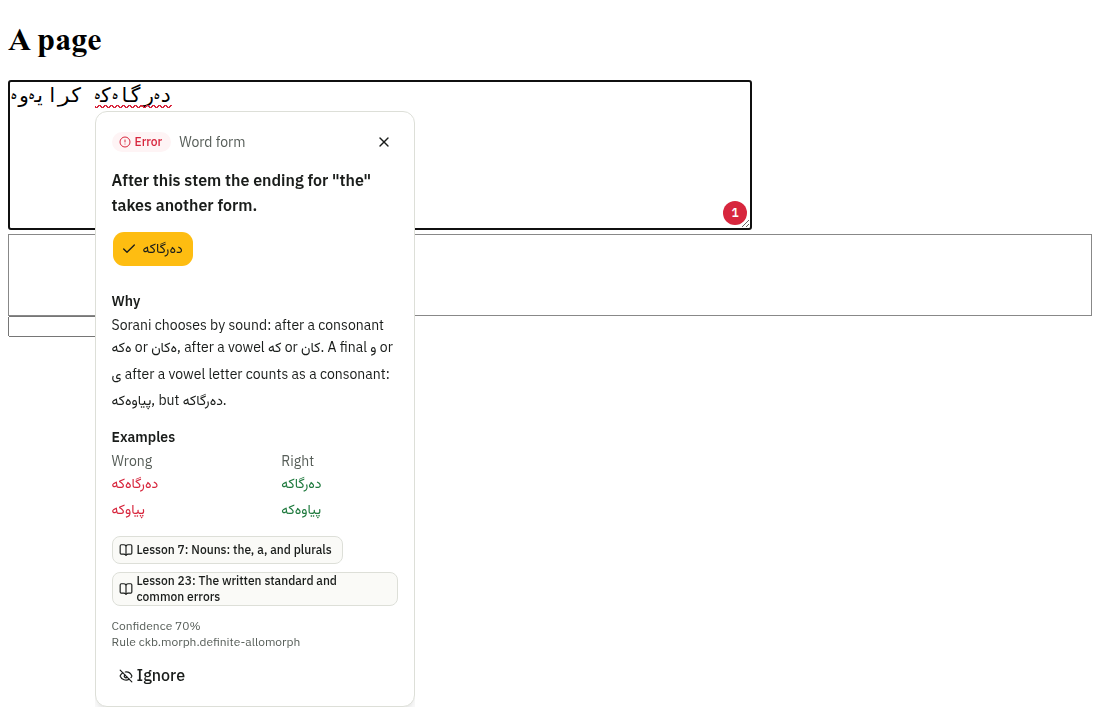
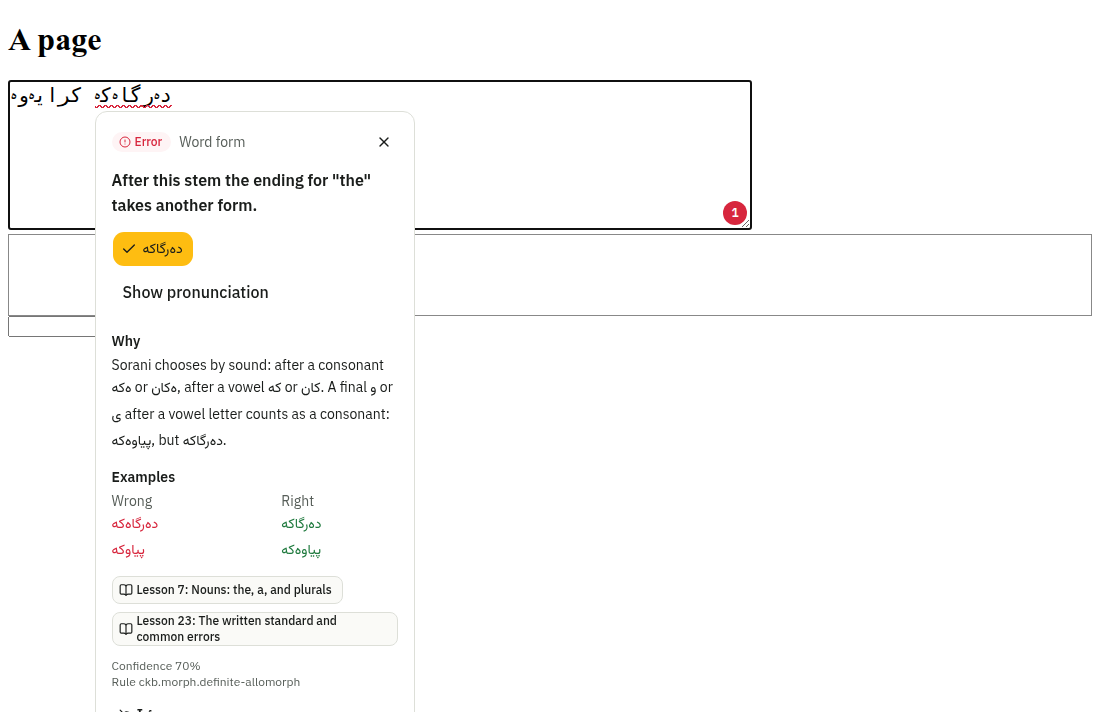
feat(editor): add the Sorani mark helper and show the pronunciation of suggestions
Typing ^ after ر, ل, ی or و gives ڕ, ڵ, ێ or ۆ, for Sorani on a keyboard without the marks,
behind the new autocomplete.soraniMarks setting. The full view and the desktop checker now honour
both typing helpers, which only the in-page checker did before.

Every checker passes the pronunciation of each suggestion to its card when teaching mode and the
new teaching.ipa setting are on; the website always does.

The docs drop the "Not yet" list: practice reminders already shipped. They now say the Safari
build has not been tested, that Google Docs cannot be checked, and which plans are on and off
the table.

Changed region(s): [[0.0927, 0.3972, 0.3709, 0.9778], [0.1236, 0.9778, 0.1545, 1.0]]

diff --git a/packages/editor/src/session.tsx b/packages/editor/src/session.tsx
@@ -6,7 +6,7 @@ import { createRoot } from "react-dom/client";
 import { fieldFor, isCheckable, type Rect, type TextField } from "./field.js";
 import { addStyles, OVERLAY_CSS, splitStyles } from "./styles.js";
 import { type CompletionView, kindOf, Surface, type Underline } from "./surface.js";
-import { helperLetter, shiftFindings, varietyOf, wordBefore } from "./text.js";
+import { helperLetter, markLetter, shiftFindings, varietyOf, wordBefore } from "./text.js";
 
 /** The checker as the editor sees it: CheckerClient fits, and so does anything else with these. */
 export interface EditorBackend {
@@ -40,6 +40,8 @@ export interface EditorOptions {
   teaching?: boolean;
   /** Turn e^ into ê and s, into ş while typing, for Kurmanji without its keyboard. */
   typingHelper?: boolean;
+  /** Turn ر^ into ڕ, ل^ into ڵ, ی^ into ێ and و^ into ۆ while typing, for Sorani without its keyboard. */
+  soraniMarks?: boolean;
   underline?: "thin" | "thick";
   /** Pages cannot reach into a closed shadow root. Only tests have reason to open it. */
   shadow?: ShadowRootMode;
@@ -102,6 +104,7 @@ export function attachEditor(candidate: Element, options: EditorOptions): Editor
     theme = "system",
     teaching = false,
     typingHelper = false,
+    soraniMarks = false,
     underline = "thin",
   } = options;
 
@@ -295,7 +298,7 @@ export function attachEditor(candidate: Element, options: EditorOptions): Editor
   function sync(): void {
     const next = field.text();
     if (next === snapshot) return;
-    if (typingHelper && !composing && !replacing && applyTypingHelper(next)) return;
+    if ((typingHelper || soraniMarks) && !composing && !replacing && applyTypingHelper(next)) return;
     findings = shiftFindings(findings, snapshot, next);
     snapshot = next;
     card = null;
@@ -313,7 +316,11 @@ export function attachEditor(candidate: Element, options: EditorOptions): Editor
   /** Replace what was just typed if it spells a letter. The replacement comes back here as a change of its own. */
   function applyTypingHelper(text: string): boolean {
     const caret = field.caret();
-    const letter = caret === null ? undefined : helperLetter(text, caret);
+    const letter =
+      caret === null
+        ? undefined
+        : ((typingHelper ? helperLetter(text, caret) : undefined) ??
+          (soraniMarks ? markLetter(text, caret) : undefined));
     if (caret === null || letter === undefined) return false;
     field.replace(caret - 2, caret, letter);
     return true;

diff --git a/packages/editor/src/checker-panel.tsx b/packages/editor/src/checker-panel.tsx
@@ -27,6 +27,12 @@ export interface CheckerPanelProps {
   onReady?: (refresh: () => void) => void;
   /** Offer to share the text. Resolves once the link has been copied. */
   onShare?: (text: string, mode: CheckMode) => Promise<void>;
+  /** Turn e^ into ê and the like while typing, for Kurmanji without its keyboard. */
+  typingHelper?: boolean;
+  /** Turn ر^ into ڕ and the like while typing, for Sorani without its keyboard. */
+  soraniMarks?: boolean;
+  /** The pronunciation of a suggestion, shown on its card. */
+  ipaOf?: (suggestion: string) => string | null;
   onLearn?: (lesson: LessonRef) => void;
   onAddToDictionary?: (word: string) => void;
   /** A finding the writer fixed or dismissed. */
@@ -48,6 +54,9 @@ export function CheckerPanel({
   initialMode = "auto",
   onReady,
   onShare,
+  ipaOf,
+  typingHelper = false,
+  soraniMarks = false,
   onLearn,
   onAddToDictionary,
   onAct,
@@ -72,6 +81,8 @@ export function CheckerPanel({
       css,
       theme: document.documentElement.dataset["theme"] === "dark" ? "dark" : "light",
       onFindings: setFindings,
+      typingHelper,
+      soraniMarks,
       backend,
       ...(onLearn !== undefined ? { onLearn } : {}),
       ...(onAddToDictionary !== undefined ? { onAddToDictionary } : {}),
@@ -83,7 +94,7 @@ export function CheckerPanel({
       handle?.destroy();
       editor.current = null;
     };
-  }, [lang, mode, css, backend, onReady, onLearn, onAddToDictionary, onAct]);
+  }, [lang, mode, css, backend, onReady, onLearn, onAddToDictionary, onAct, typingHelper, soraniMarks]);
 
   const finding = findings.find((found) => found.id === selected) ?? null;
   const looks = finding?.lookup === undefined ? undefined : looked[finding.lookup];
@@ -212,6 +223,7 @@ export function CheckerPanel({
                 editor.current?.ignore(shown.id);
                 setSelected(null);
               }}
+              {...(ipaOf !== undefined ? { ipaOf } : {})}
               {...(onLearn !== undefined ? { onLearn } : {})}
             />
           )}

diff --git a/packages/editor/test/text.test.ts b/packages/editor/test/text.test.ts
@@ -1,6 +1,14 @@
 import type { Finding } from "@zimanyar/rules";
 import { describe, expect, it } from "vitest";
-import { changedRange, helperLetter, shiftFindings, varietyOf, wordBefore } from "../src/text.js";
+import {
+  changedRange,
+  helperLetter,
+  markLetter,
+  pronunciationOf,
+  shiftFindings,
+  varietyOf,
+  wordBefore,
+} from "../src/text.js";
 
 const finding = (start: number, end: number) => ({ id: `${start}`, range: { start, end } }) as Finding;
 const ranges = (found: readonly Finding[]) => found.map(({ range }) => [range.start, range.end]);
@@ -74,5 +82,33 @@ describe("helperLetter", () => {
   it("leaves everything else alone", () => {
     expect(helperLetter("ab", 2)).toBeUndefined();
     expect(helperLetter("e", 1)).toBeUndefined();
+  });
+});
+
+describe("markLetter", () => {
+  it("adds the Sorani mark asked for with ^", () => {
+    expect(markLetter("ر^", 2)).toBe("ڕ");
+    expect(markLetter("گوڵ^", 4)).toBeUndefined();
+    expect(markLetter("گول^", 4)).toBe("ڵ");
+    expect(markLetter("دی^", 3)).toBe("ێ");
+    expect(markLetter("دي^", 3)).toBe("ێ");
+    expect(markLetter("ڕو^", 3)).toBe("ۆ");
+  });
+
+  it("leaves everything else alone", () => {
+    expect(markLetter("ر", 1)).toBeUndefined();
+    expect(markLetter("e^", 2)).toBeUndefined();
+    expect(markLetter("رر", 2)).toBeUndefined();
+  });
+});
+
+describe("pronunciationOf", () => {
+  it("gives the IPA of either variety between slashes", () => {
+    expect(pronunciationOf("ڕۆژ")).toMatch(/^\/.+\/$/);
+    expect(pronunciationOf("roj")).toMatch(/^\/.+\/$/);
+  });
+
+  it("has nothing for a text without sounds", () => {
+    expect(pronunciationOf("")).toBeNull();
   });
 });

diff --git a/packages/editor/test/checker-panel.test.tsx b/packages/editor/test/checker-panel.test.tsx
@@ -1,7 +1,7 @@
 import { cleanup, fireEvent, render, screen, waitFor } from "@testing-library/react";
 import { Checker } from "@zimanyar/checker";
 import { afterEach, beforeEach, describe, expect, it, vi } from "vitest";
-import { CheckerPanel, type EditorBackend } from "../src/index.js";
+import { CheckerPanel, type EditorBackend, pronunciationOf } from "../src/index.js";
 
 const checker = new Checker();
 const backendOf = (): EditorBackend => ({
@@ -35,6 +35,30 @@ describe("CheckerPanel", () => {
     fireEvent.click(await screen.findByRole("button", { name: /dîtim/ }));
     fireEvent.click(await screen.findByRole("button", { name: "Replace with dîtî" }));
     expect(field().value).toBe("Min tu dîtî.");
+  });
+
+  it("offers the pronunciation of the suggestions when given a way to find it", async () => {
+    render(
+      <CheckerPanel
+        backend={backendOf()}
+        css=""
+        initialText="Min tu dîtim."
+        ipaOf={pronunciationOf}
+        lang="en"
+      />,
+    );
+    fireEvent.click(await screen.findByRole("button", { name: /dîtim/ }));
+    fireEvent.click(await screen.findByRole("button", { name: "Show pronunciation" }));
+    expect(screen.getByText(/^Pronunciation: \/.+\/$/)).toBeDefined();
+  });
+
+  it("adds Sorani marks while typing when asked", () => {
+    render(<CheckerPanel backend={backendOf()} css="" initialText="" lang="en" noSamples soraniMarks />);
+    field().focus();
+    field().value = "گول^";
+    field().setSelectionRange(4, 4);
+    fireEvent.input(field());
+    expect(field().value).toBe("گوڵ");
   });
 
   it("looks up suggestions a check left out", async () => {

diff --git a/packages/editor/src/text.ts b/packages/editor/src/text.ts
@@ -1,3 +1,4 @@
+import { ckb, kmr } from "@zimanyar/core";
 import type { Finding, Variety } from "@zimanyar/rules";
 
 /** Where two texts differ: the same before `start`, and the same after each end. */
@@ -58,3 +59,21 @@ const HELPER: Readonly<Record<string, string>> = {
 /** The Kurmanji letter spelled by the two characters before the caret, as on a keyboard without them. */
 export const helperLetter = (text: string, caret: number): string | undefined =>
   caret < 2 ? undefined : HELPER[text.slice(caret - 2, caret)];
+
+const MARKS: Readonly<Record<string, string>> = {
+  "ر^": "ڕ",
+  "ل^": "ڵ",
+  "ی^": "ێ",
+  "ي^": "ێ",
+  "و^": "ۆ",
+};
+
+/** The Sorani letter with its mark, asked for with ^ after the letter on a keyboard without it. */
+export const markLetter = (text: string, caret: number): string | undefined =>
+  caret < 2 ? undefined : MARKS[text.slice(caret - 2, caret)];
+
+/** The pronunciation of a suggestion, between slashes, or null when it has none. */
+export function pronunciationOf(text: string): string | null {
+  const ipa = varietyOf(text) === "ckb" ? ckb.textToIpa(text) : kmr.textToIpa(text);
+  return ipa.trim() === "" ? null : `/${ipa}/`;
+}

diff --git a/packages/app/src/settings-page.tsx b/packages/app/src/settings-page.tsx
@@ -223,6 +223,11 @@ export function SettingsPage({ settings: stored, platform }: { settings: Setting
           label={t("settings.practiceReminders")}
           onChange={(practiceReminders) => change("teaching", { practiceReminders })}
         />
+        <Toggle
+          checked={settings.teaching.ipa}
+          label={t("settings.ipa")}
+          onChange={(ipa) => change("teaching", { ipa })}
+        />
       </Section>
 
       <Section query={query} title={t("settings.autocomplete")}>
@@ -235,6 +240,11 @@ export function SettingsPage({ settings: stored, platform }: { settings: Setting
           checked={settings.autocomplete.typingHelper}
           label={t("settings.typingHelper")}
           onChange={(typingHelper) => change("autocomplete", { typingHelper })}
+        />
+        <Toggle
+          checked={settings.autocomplete.soraniMarks}
+          label={t("settings.soraniMarks")}
+          onChange={(soraniMarks) => change("autocomplete", { soraniMarks })}
         />
         <label className="flex items-center gap-2">
           <span>{t("settings.count")}</span>

diff --git a/apps/desktop/src/quick.tsx b/apps/desktop/src/quick.tsx
@@ -4,7 +4,7 @@ import { getCurrentWindow } from "@tauri-apps/api/window";
 import { readText, writeText } from "@tauri-apps/plugin-clipboard-manager";
 import { applyInterface } from "@zimanyar/app";
 import overlayCss from "@zimanyar/app/overlay.css?inline";
-import { CheckerPanel, type EditorBackend } from "@zimanyar/editor";
+import { CheckerPanel, type EditorBackend, pronunciationOf } from "@zimanyar/editor";
 import { createT } from "@zimanyar/i18n";
 import { checkOptionsFrom, type Settings } from "@zimanyar/settings";
 import { Button } from "@zimanyar/ui";
@@ -73,6 +73,9 @@ function QuickCheck({ settings }: { settings: Settings }) {
         css={overlayCss}
         initialMode={options.lang}
         initialText={text}
+        {...(settings.teaching.mode && settings.teaching.ipa ? { ipaOf: pronunciationOf } : {})}
+        soraniMarks={settings.autocomplete.soraniMarks}
+        typingHelper={settings.autocomplete.typingHelper}
         key={turn}
         lang={settings.interface.uiLang}
         noSamples

diff --git a/apps/extension/src/entrypoints/content.ts b/apps/extension/src/entrypoints/content.ts
@@ -1,5 +1,5 @@
 import overlayCss from "@zimanyar/app/overlay.css?inline";
-import { attachEditor, type EditorHandle, isCheckable } from "@zimanyar/editor";
+import { attachEditor, type EditorHandle, isCheckable, pronunciationOf } from "@zimanyar/editor";
 import { checkOptionsFrom, parseSettings, type Settings, withWord } from "@zimanyar/settings";
 import { browser } from "wxt/browser";
 import { backendFor } from "../lib/browser-backend";
@@ -59,7 +59,9 @@ export default defineContentScript({
         autocomplete: settings.autocomplete.enabled,
         completions: settings.autocomplete.count,
         typingHelper: settings.autocomplete.typingHelper,
+        soraniMarks: settings.autocomplete.soraniMarks,
         teaching: settings.teaching.mode,
+        ...(settings.teaching.mode && settings.teaching.ipa ? { ipaOf: pronunciationOf } : {}),
         underline: settings.interface.underline,
         onAddToDictionary: (word) => {
           settings = withWord(settings, word);

diff --git a/packages/app/src/full-app.tsx b/packages/app/src/full-app.tsx
@@ -1,4 +1,4 @@
-import { CheckerPanel } from "@zimanyar/editor";
+import { CheckerPanel, pronunciationOf } from "@zimanyar/editor";
 import { createT } from "@zimanyar/i18n";
 import { parsePractice, progress, recordMistake } from "@zimanyar/practice";
 import type { Settings } from "@zimanyar/settings";
@@ -128,6 +128,9 @@ export function FullApp({ settings, platform }: { settings: Settings; platform: 
             <CheckerPanel
               backend={backend}
               css={platform.overlayCss}
+              {...(settings.teaching.mode && settings.teaching.ipa ? { ipaOf: pronunciationOf } : {})}
+              soraniMarks={settings.autocomplete.soraniMarks}
+              typingHelper={settings.autocomplete.typingHelper}
               lang={uiLang}
               onAddToDictionary={onAddToDictionary}
               onAct={onAct}

diff --git a/apps/web/src/islands/CheckerApp.tsx b/apps/web/src/islands/CheckerApp.tsx
@@ -1,7 +1,7 @@
 import { CheckerClient } from "@zimanyar/checker";
 import CheckerWorker from "@zimanyar/checker/worker?worker";
 import { lessonPath } from "@zimanyar/content/lesson-slugs";
-import { CheckerPanel, type CheckMode, type EditorBackend } from "@zimanyar/editor";
+import { CheckerPanel, type CheckMode, type EditorBackend, pronunciationOf } from "@zimanyar/editor";
 import type { UiLang } from "@zimanyar/i18n";
 import type { LessonRef, Variety } from "@zimanyar/rules";
 import overlayCss from "@zimanyar/ui/styles.css?inline";
@@ -85,6 +85,7 @@ export default function CheckerApp({ lang, compact = false }: CheckerAppProps) {
       compact={compact}
       css={overlayCss}
       initialMode={start?.mode ?? "auto"}
+      ipaOf={pronunciationOf}
       lang={lang}
       onLearn={onLearn}
       onReady={onReady}

diff --git a/packages/settings/src/index.ts b/packages/settings/src/index.ts
@@ -32,6 +32,7 @@ export const settingsSchema = z.object({
       mode: z.boolean().default(true),
       lessonLinks: z.boolean().default(true),
       practiceReminders: z.boolean().default(true),
+      ipa: z.boolean().default(true),
     })
     .prefault({}),
   autocomplete: z
@@ -39,6 +40,7 @@ export const settingsSchema = z.object({
       enabled: z.boolean().default(true),
       count: z.number().int().min(1).max(10).default(6),
       typingHelper: z.boolean().default(true),
+      soraniMarks: z.boolean().default(true),
     })
     .prefault({}),
   dictionary: z

diff --git a/packages/editor/test/session.test.tsx b/packages/editor/test/session.test.tsx
@@ -696,6 +696,19 @@ describe("options", () => {
     type("de^");
     expect(textarea.value).toBe("de^");
   });
+
+  it("adds Sorani marks when asked", () => {
+    attach({ soraniMarks: true });
+    type("گول^");
+    expect(textarea.value).toBe("گوڵ");
+    expect(textarea.selectionStart).toBe(3);
+  });
+
+  it("keeps the two helpers apart", () => {
+    attach({ soraniMarks: true });
+    type("de^");
+    expect(textarea.value).toBe("de^");
+  });
 });
 
 describe("fixing every safe finding", () => {
